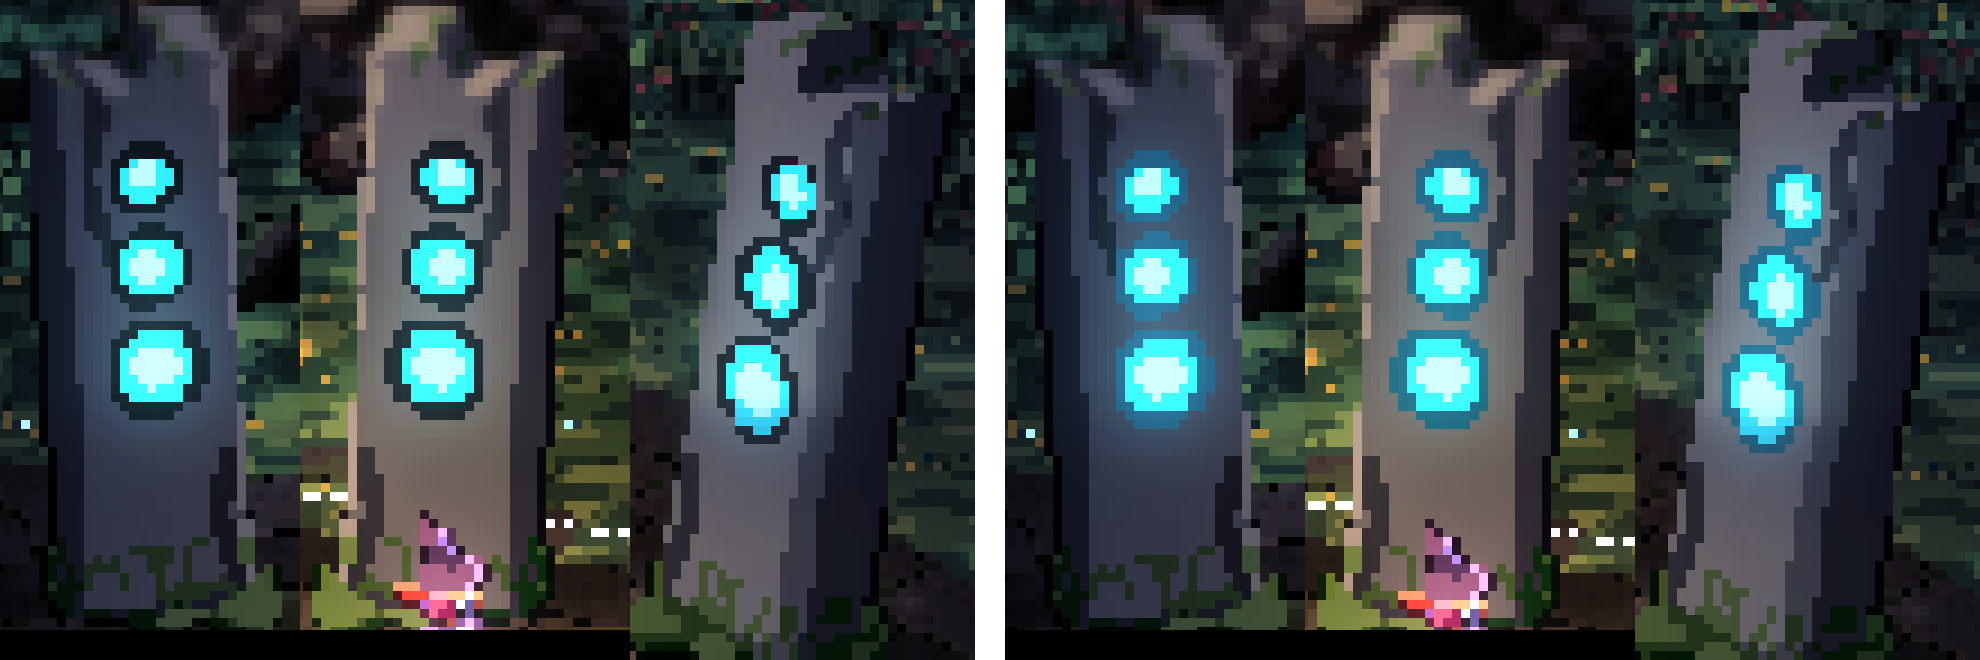
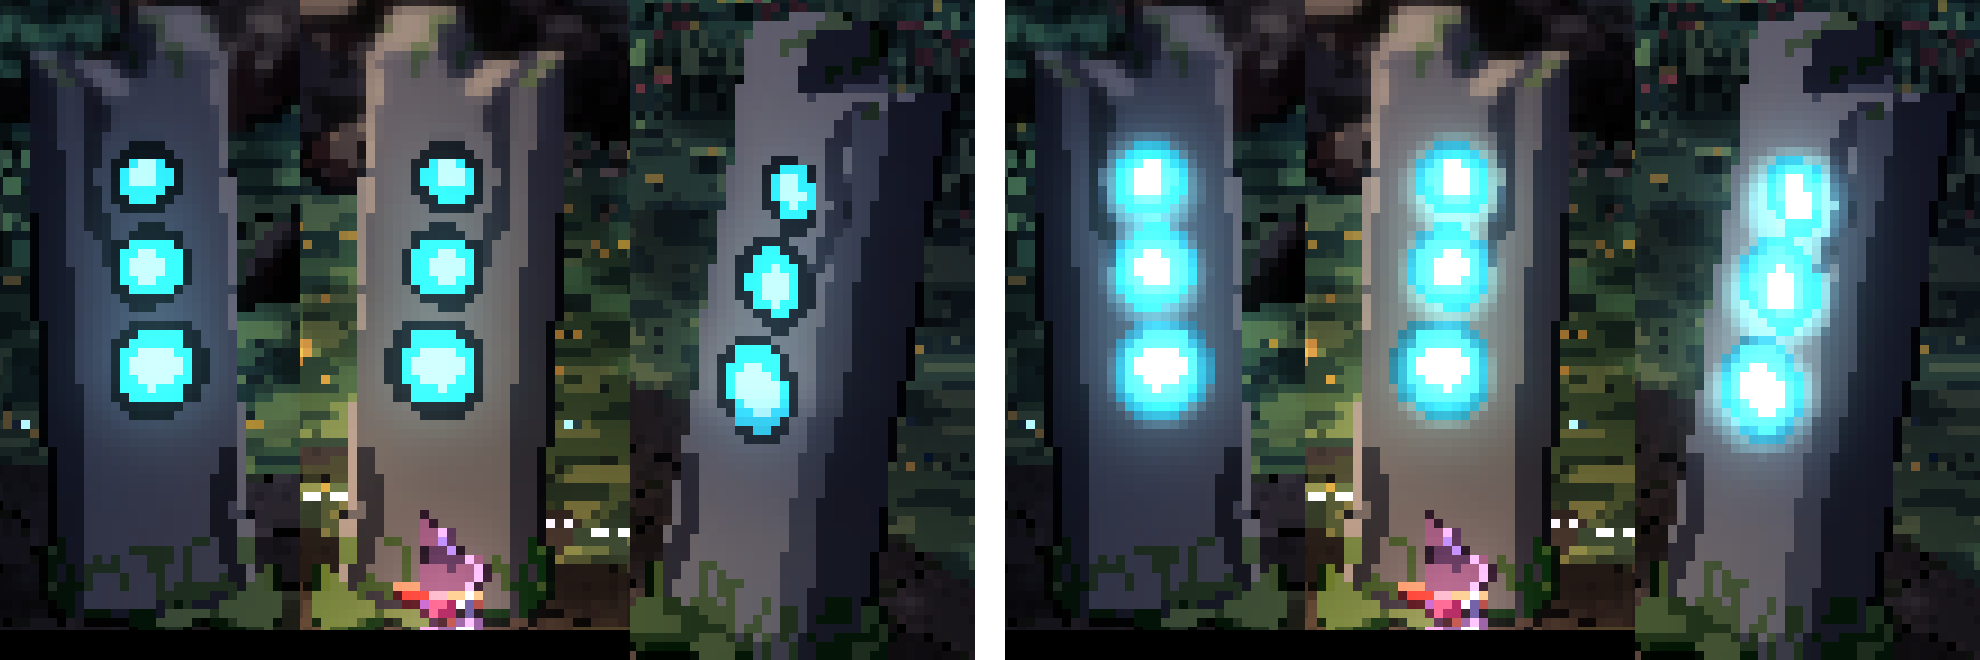
Ring stones: the dots glow (a soft cyan halo and a bright core)
Ed (2026-10-09): "They should glow." The art gives each turned ring stone its three dots' middles in
the sprite (runeStone's `dots`, kept as SpeakerArt.stoneDots); drawSpeakers puts them in the world,
stretched with the stone as it charges, and LeashView draws each a soft cyan halo, smooth like the
berries' (docs/STYLE.md section 1 rule 3), and a core bright enough for the bloom. The dots' own
pixels stay hard-edged in the sprite.

Claude-Session: https://claude.ai/code/session_014acVVHVwbRfeD46pBsk634

diff --git a/src/render/artBuild.ts b/src/render/artBuild.ts
@@ -279,7 +279,7 @@ export const RING_STONE_CARVINGS: Record<number, Carving> = {};
 const carvingKey = (c?: Carving) => (c?.sigil ? `s:${c.sigil}` : c?.rune !== undefined ? `r:${c.rune}` : "");
 /** A ring stone's frame key in SpeakerArt.stones: its drawn angle and its carving. */
 export const ringStoneKey = (i: number, angle: number): string => `${angle}|${carvingKey(RING_STONE_CARVINGS[i])}`;
-export interface SpeakerArt { frames: Record<string, number>; origin: Record<number, { x: number; y: number }>; /** The runestone each home speaker starts as (Ed, 2026-10-06), turned like the speakers (Ed, 2026-10-08: "face inwards, like the ring speakers do"): by ringStoneKey, its frame and its ground point. */ stones?: Record<string, number>; stoneOrigin?: Record<string, { x: number; y: number }> }
+export interface SpeakerArt { frames: Record<string, number>; origin: Record<number, { x: number; y: number }>; /** The runestone each home speaker starts as (Ed, 2026-10-06), turned like the speakers (Ed, 2026-10-08: "face inwards, like the ring speakers do"): by ringStoneKey, its frame and its ground point. */ stones?: Record<string, number>; stoneOrigin?: Record<string, { x: number; y: number }>; /** And where its glowing dots' middles are in its frame (art pixels), by the same key: the game's glow round them (Ed, 2026-10-09). */ stoneDots?: Record<string, { x: number; y: number }[]> }
 
 /** The beach's edge of the woods in its atlas (render/beach.ts): palms as crown and trunk frames, shrubs and grass clumps whole. */
 export interface BeachEdgeArt { palms: { top: number; bot: number }[]; shrubs: number[]; grass: number[] }
@@ -324,14 +324,14 @@ function speakerSprites(st: Style, mk: MakeCanvas, stoneScale: number): { sprite
       }
   // the runestone it starts as (the areas' rune stone, cyan, carved with its three dots or its own carving): baked at the areas' stones' scale, so as
   // tall as theirs, at SPEAKER_STONE_WIDTH of their width, at each of the speakers' angles (mirrored as they are), drawn at 1 (docs/STYLE.md rule 1)
-  type Stone = Baked & { origin: { x: number; y: number } };
+  type Stone = Baked & { origin: { x: number; y: number }; dots?: { x: number; y: number }[] };
   const runeStone = Art.runeStone as unknown as (st: Style, o: { glow: string; scale: number; width: number; yaw: number; rune?: number; sigil?: string; dots?: boolean; makeCanvas: MakeCanvas }) => Stone;
-  speakers.stones = {}; speakers.stoneOrigin = {};
+  speakers.stones = {}; speakers.stoneOrigin = {}; speakers.stoneDots = {};
   const carvings = new Map<string, Carving>([["", RING_STONE_CARVING], ...Object.values(RING_STONE_CARVINGS).map(c => [carvingKey(c), c] as const)]);
   for (const angle of Art.DANCEFLOOR_SPEAKER_ANGLES as number[])
     for (const [key, c] of carvings) {
       const stone = runeStone(st, { glow: "cyan", scale: stoneScale, width: SPEAKER_STONE_WIDTH, yaw: angle, ...c, makeCanvas: mk });
-      speakers.stones[`${angle}|${key}`] = sprites.push(stone) - 1; speakers.stoneOrigin[`${angle}|${key}`] = stone.origin;
+      speakers.stones[`${angle}|${key}`] = sprites.push(stone) - 1; speakers.stoneOrigin[`${angle}|${key}`] = stone.origin; if (stone.dots) speakers.stoneDots[`${angle}|${key}`] = stone.dots;
     }
   return { sprites, speakers };
 }

diff --git a/art/areas.js b/art/areas.js
@@ -607,6 +607,8 @@ function magicStone(variant, sigil, size = 1, width = 1, { yaw, rune, dots } = {
   const H = Math.round(44 * size), R = yaw === undefined ? render(m, { height: H })
     : render(m, { scale: render(m, { height: H, yaw: 15 * Math.PI / 180, measure: true }).s, yaw: yaw * Math.PI / 180 }), sp = R.sp; // (every yaw at the scale of the speakers' nearest angle)
   const origin = yaw === undefined ? null : (([ox, oy]) => ({ x: +ox.toFixed(1), y: +oy.toFixed(1) }))(R.project([0, 0, 0]));
+  // where the three dots' middles land in the sprite (art pixels), for the game's glow round them (Ed, 2026-10-09: "They should glow")
+  const dotsAt = dots && yaw !== undefined ? DOTS.map(([y]) => (([x, py]) => ({ x: +x.toFixed(1), y: +py.toFixed(1) }))(R.project(v3.add(v3.add(C, v3.mul(ay, y - .46)), v3.mul(az, fz))))) : null;
   if (sigil) carveSigil(sp, sigil);
   // a few motes drifting round it
   let n = 0;
@@ -615,7 +617,7 @@ function magicStone(variant, sigil, size = 1, width = 1, { yaw, rune, dots } = {
     if (sp.get(x, y) || sp.get(x + 1, y) || sp.get(x - 1, y) || sp.get(x, y + 1) || sp.get(x, y - 1)) continue;
     sp.px(x, y, n % 2 ? M.RUNE : M.MAGIC2); n++;
   }
-  return { sp, colours: col, origin };
+  return { sp, colours: col, origin, dots: dotsAt };
 }
 function pond() {
   const m = new Model({ blend: .03 });
@@ -632,10 +634,11 @@ function pond() {
 // scale: baked that much bigger (the game draws it at 1: docs/STYLE.md §1). width: the slab that much narrower, carved and
 // mossed the same (the dancefloor ring's stones: an area's stone at half its width; Ed, 2026-10-08).
 // yaw (degrees from facing us, as dancefloorSpeakerSprite's angle) turns it, and adds its ground point under its middle as `origin`;
-// rune picks the glyph carved when there's no sigil; dots carves three glowing dots up the face instead.
+// rune picks the glyph carved when there's no sigil; dots carves three glowing dots up the face instead (and, turned, adds their
+// middles in the sprite as `dots`, where the game draws their glow).
 export function runeStone(st, { glow = "cyan", sigil, scale = 1, width = 1, yaw, rune, dots, makeCanvas = defaultCanvas } = {}) {
   const s = magicStone(glow, sigil, scale, width, { yaw, rune, dots }), b = bake(s.sp, s.colours, st, "none", makeCanvas);
-  return s.origin ? { ...b, origin: s.origin } : b;
+  return s.origin ? { ...b, origin: s.origin, ...(s.dots ? { dots: s.dots } : {}) } : b;
 }
 export function lightProps(st, { makeCanvas = defaultCanvas } = {}) {
   const bk = (sp, col) => bake(sp, col, st, "none", makeCanvas);

diff --git a/tools/art-lab/dist/witch-art-lab.html b/tools/art-lab/dist/witch-art-lab.html
@@ -8387,6 +8387,8 @@ function magicStone(variant, sigil, size = 1, width = 1, { yaw, rune, dots } = {
   const H = Math.round(44 * size), R = yaw === undefined ? render(m, { height: H })
     : render(m, { scale: render(m, { height: H, yaw: 15 * Math.PI / 180, measure: true }).s, yaw: yaw * Math.PI / 180 }), sp = R.sp; // (every yaw at the scale of the speakers' nearest angle)
   const origin = yaw === undefined ? null : (([ox, oy]) => ({ x: +ox.toFixed(1), y: +oy.toFixed(1) }))(R.project([0, 0, 0]));
+  // where the three dots' middles land in the sprite (art pixels), for the game's glow round them (Ed, 2026-10-09: "They should glow")
+  const dotsAt = dots && yaw !== undefined ? DOTS.map(([y]) => (([x, py]) => ({ x: +x.toFixed(1), y: +py.toFixed(1) }))(R.project(v3.add(v3.add(C, v3.mul(ay, y - .46)), v3.mul(az, fz))))) : null;
   if (sigil) carveSigil(sp, sigil);
   // a few motes drifting round it
   let n = 0;
@@ -8395,7 +8397,7 @@ function magicStone(variant, sigil, size = 1, width = 1, { yaw, rune, dots } = {
     if (sp.get(x, y) || sp.get(x + 1, y) || sp.get(x - 1, y) || sp.get(x, y + 1) || sp.get(x, y - 1)) continue;
     sp.px(x, y, n % 2 ? M.RUNE : M.MAGIC2); n++;
   }
-  return { sp, colours: col, origin };
+  return { sp, colours: col, origin, dots: dotsAt };
 }
 function pond() {
   const m = new Model({ blend: .03 });
@@ -8412,10 +8414,11 @@ function pond() {
 // scale: baked that much bigger (the game draws it at 1: docs/STYLE.md §1). width: the slab that much narrower, carved and
 // mossed the same (the dancefloor ring's stones: an area's stone at half its width; Ed, 2026-10-08).
 // yaw (degrees from facing us, as dancefloorSpeakerSprite's angle) turns it, and adds its ground point under its middle as `origin`;
-// rune picks the glyph carved when there's no sigil; dots carves three glowing dots up the face instead.
+// rune picks the glyph carved when there's no sigil; dots carves three glowing dots up the face instead (and, turned, adds their
+// middles in the sprite as `dots`, where the game draws their glow).
 function runeStone(st, { glow = "cyan", sigil, scale = 1, width = 1, yaw, rune, dots, makeCanvas = defaultCanvas } = {}) {
   const s = magicStone(glow, sigil, scale, width, { yaw, rune, dots }), b = bake(s.sp, s.colours, st, "none", makeCanvas);
-  return s.origin ? { ...b, origin: s.origin } : b;
+  return s.origin ? { ...b, origin: s.origin, ...(s.dots ? { dots: s.dots } : {}) } : b;
 }
 function lightProps(st, { makeCanvas = defaultCanvas } = {}) {
   const bk = (sp, col) => bake(sp, col, st, "none", makeCanvas);

diff --git a/src/render/view/home.ts b/src/render/view/home.ts
@@ -166,7 +166,8 @@ export function drawSpeakers(v: View, time: number, angle: number): ForestLight[
   const mpp = v.mpp, U = SPRITE_UNIFORMS.uUp.value, R = SPRITE_UNIFORMS.uRight.value;
   const pitch = (angle * Math.PI) / 180, upOnScreen = U.dot(v.v3.set(0, Math.cos(pitch), -Math.sin(pitch)));
   const beat = (beatTime(g.beat, time) * g.tuning.beat.bpm) / 60, ph = beat - Math.floor(beat);
-  const list: SpriteInstance[] = [];
+  const list: SpriteInstance[] = [], glows = v.leashView.ringGlows;
+  glows.length = 0;
   // Where a sprite stands so its ground point (o, art pixels in its frame; mirrored with it) lands on the spot: the part drawn below
   // the ground point lies on the ground nearer the camera.
   const standAt = (sp: { x: number; z: number }, f: { w: number; h: number; pad?: number }, o: { x: number; y: number }, flip: boolean) => {
@@ -182,6 +183,12 @@ export function drawSpeakers(v: View, time: number, angle: number): ForestLight[
       if (!inView(v, p.x, p.z, f.w * mpp, f.h * mpp, 6)) return;
       if (c > 0) lights.push({ x: sp.x, y: 1.5, z: sp.z, reach: 8, rgb: new THREE.Vector3(0.3, 0.9, 1), strength: 1.5 * c });
       list.push({ x: p.x - U.x * d, y: -U.y * d, z: p.z - U.z * d, frame: f, flip: face.flip, sx: 1 - STRETCH.thin * c, sy: 1 + STRETCH.up * c, glow: c, fresh: mark(v, "speaker", sp.x, sp.z, f.h * mpp) });
+      // its dots' glow (Ed, 2026-10-09: "They should glow"): each dot's middle in the world, stretched with the stone, for the
+      // soft halos LeashView draws (drawRingGlows), brighter as it charges
+      for (const q of A.stoneDots?.[sk] ?? []) {
+        const a = ((face.flip ? f.w - q.x : q.x) - f.w / 2) * mpp * (1 - STRETCH.thin * c), b = (f.h - q.y) * mpp * (1 + STRETCH.up * c);
+        glows.push({ x: p.x - U.x * d + R.x * a + U.x * b, y: -U.y * d + R.y * a + U.y * b, z: p.z - U.z * d + R.z * a + U.z * b, k: 1 + c });
+      }
       return;
     }
     const u = si === undefined ? 1 : Math.min(1, (k - TURN) / (1 - TURN)), rise = u >= 1 ? 1 : 1 - Math.pow(1 - u, 3) * Math.cos(u * 4.2); // springs up, past full, settles

diff --git a/src/render/leash.ts b/src/render/leash.ts
@@ -162,6 +162,19 @@ export class LeashView {
    *  the canopy; the ring of how near a party animal is to evolving; and evolving itself: motes
    *  spiralling up through the bar, a flash on the bar line as it becomes its next level, a burst
    *  of party sparkles. */
+  /** The ring stones' glowing dots this frame (render/view/home.ts drawSpeakers): each one's middle in the world and how bright. */
+  ringGlows: { x: number; y: number; z: number; k: number }[] = [];
+  /** Their glow (Ed, 2026-10-09: "They should glow"): a soft cyan halo round each dot, smooth as the berries' (docs/STYLE.md §1
+   *  rule 3: light may be smooth), and a core bright enough for the bloom; the dot's own pixels stay on the grid in the sprite. */
+  drawRingGlows(time: number): void {
+    const dot = this.uv(0);
+    for (const [i, q] of this.ringGlows.entries()) {
+      const tw = 0.9 + 0.1 * Math.sin(time * 1.7 + i * 0.9);
+      this.standing.add(q.x, q.y, q.z + 0.15, 1.6, dot, 0.3 * 1.5, 0.9 * 1.5, 1.5, 0.8 * q.k * tw); // the soft halo
+      this.standing.add(q.x, q.y, q.z + 0.16, 0.32, dot, 0.6 * 1.8, 1.8, 1.8, 0.75 * q.k); // its bright core, for the bloom
+    }
+  }
+
   drawBerries(time: number): void {
     const g = this.game, B = g.berries, t = g.tuning, w = g.witch, dot = this.uv(0), [r, gg, b] = this.berryRgb, glow = t.berries.glow;
     const treetops = w.lift > 0.5, near = treetops ? 260 : 90, beat = 60 / t.beat.bpm;
@@ -355,6 +368,7 @@ export class LeashView {
     const g = this.game, s = g.leash, t = g.tuning, w = g.witch, L = t.leash, dot = this.uv(0);
     this.standing.begin(); this.flat.begin(); this.over.begin(); this.solid.begin();
     this.drawBerries(time);
+    this.drawRingGlows(time);
     this.drawBosses(time);
     this.drawLetters(time);
     drawCombat(this, time, camera, width, height, hatTop);
